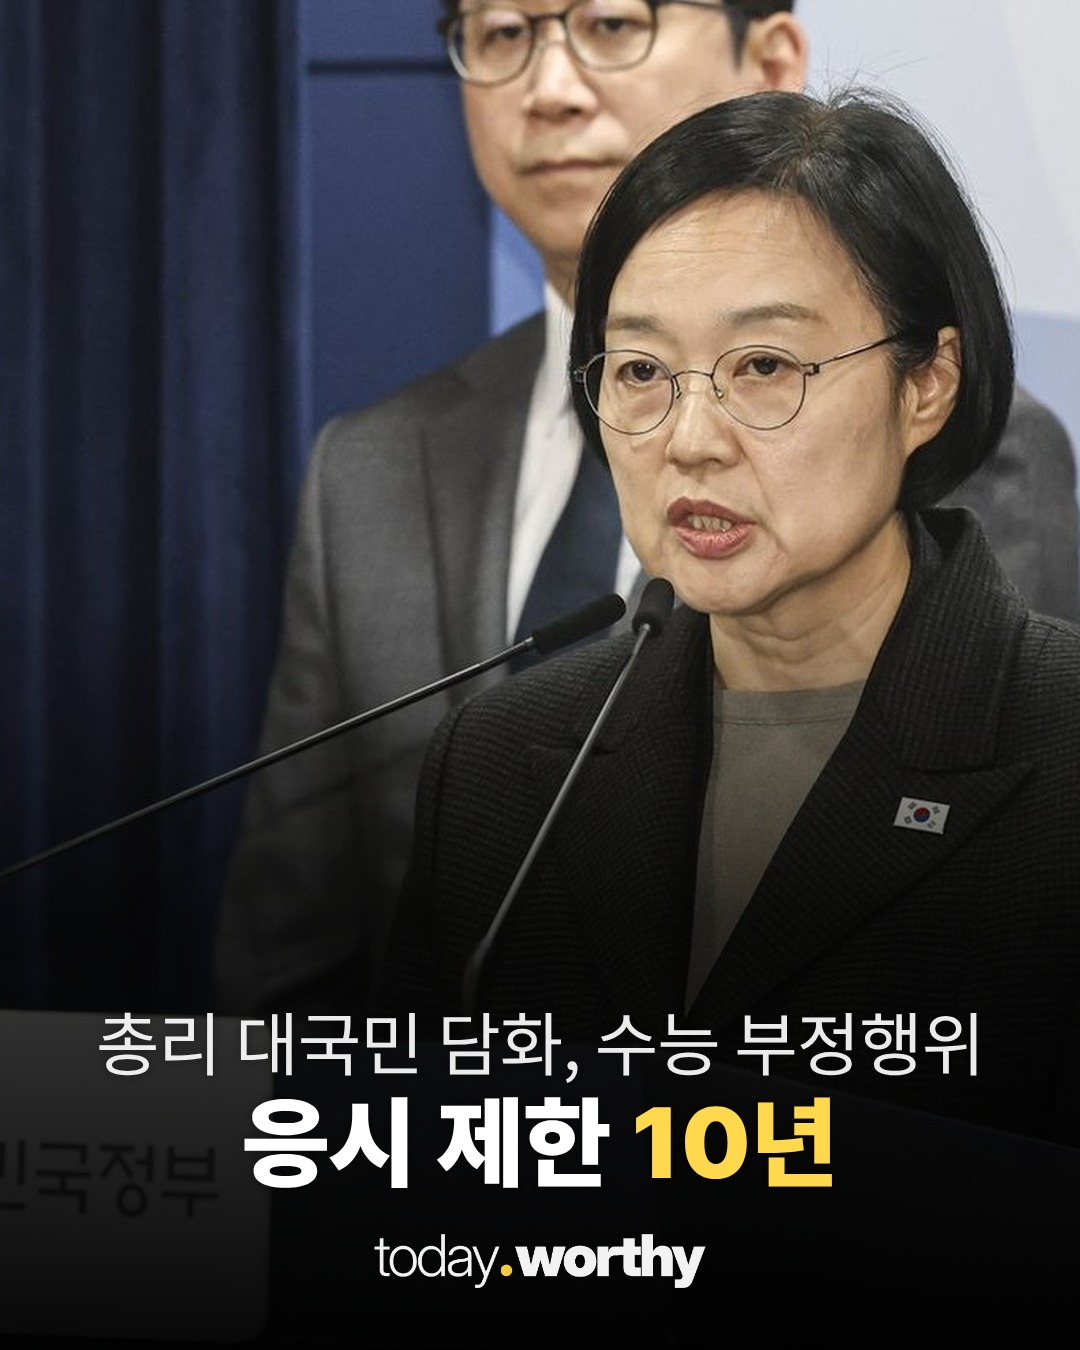
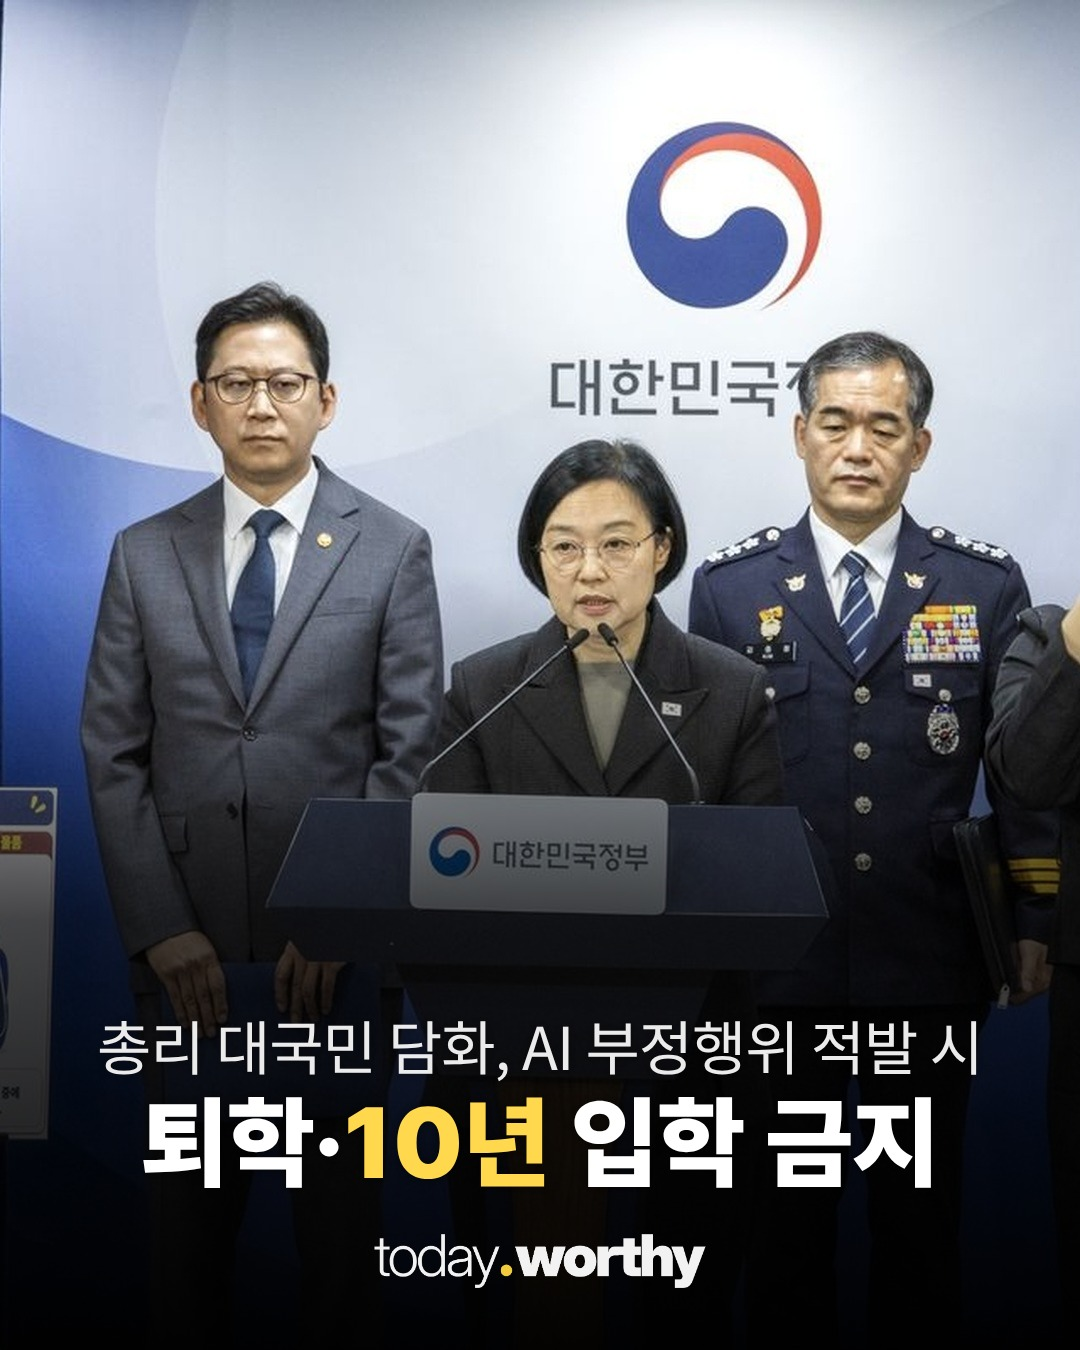
check2: 표지 담화 단체사진·'퇴학·10년 입학 금지'
Claude-Session: https://claude.ai/code/session_01FGsw5QnWxFUsnopcB1Czie

diff --git a/media/20261117-check2/build_cards.py b/media/20261117-check2/build_cards.py
@@ -77,5 +77,5 @@ frame(("이런 걸 잡겠다는 것", "지퍼에 숨긴 '초소형 카메라'"),
 frame(("정부가 동시에 하는 것", "'비상근무' 돌입"),
       panel([("감독관", "7만 5천여 명에 '8,400명' 추가"), ("청와대", "AI 부정행위 '비상대책 TF'"), ("네이버·당근", "AI 안경·카메라 '거래 관리'"), ("국가자격시험", "감시 예산 '182억' 증액 추진"), ("전파 차단", "법적·기술적 한계로 '안 한다'")], gap=118),
       "수능 '이틀 전' 나온 총력전", "JTBC·연합뉴스·파이낸셜뉴스(11.17)").save(O / "c06.jpg", quality=93)
-fit(op("press06.jpg"), W, H, (.55, .3)).save(O / "cover_bg.jpg", quality=95)
+fit(op("press12.jpg"), W, H, (.55, .3)).save(O / "cover_bg.jpg", quality=95)  # 사용자 지정: 총리·관계자 함께 선 담화 사진
 print("ok")
